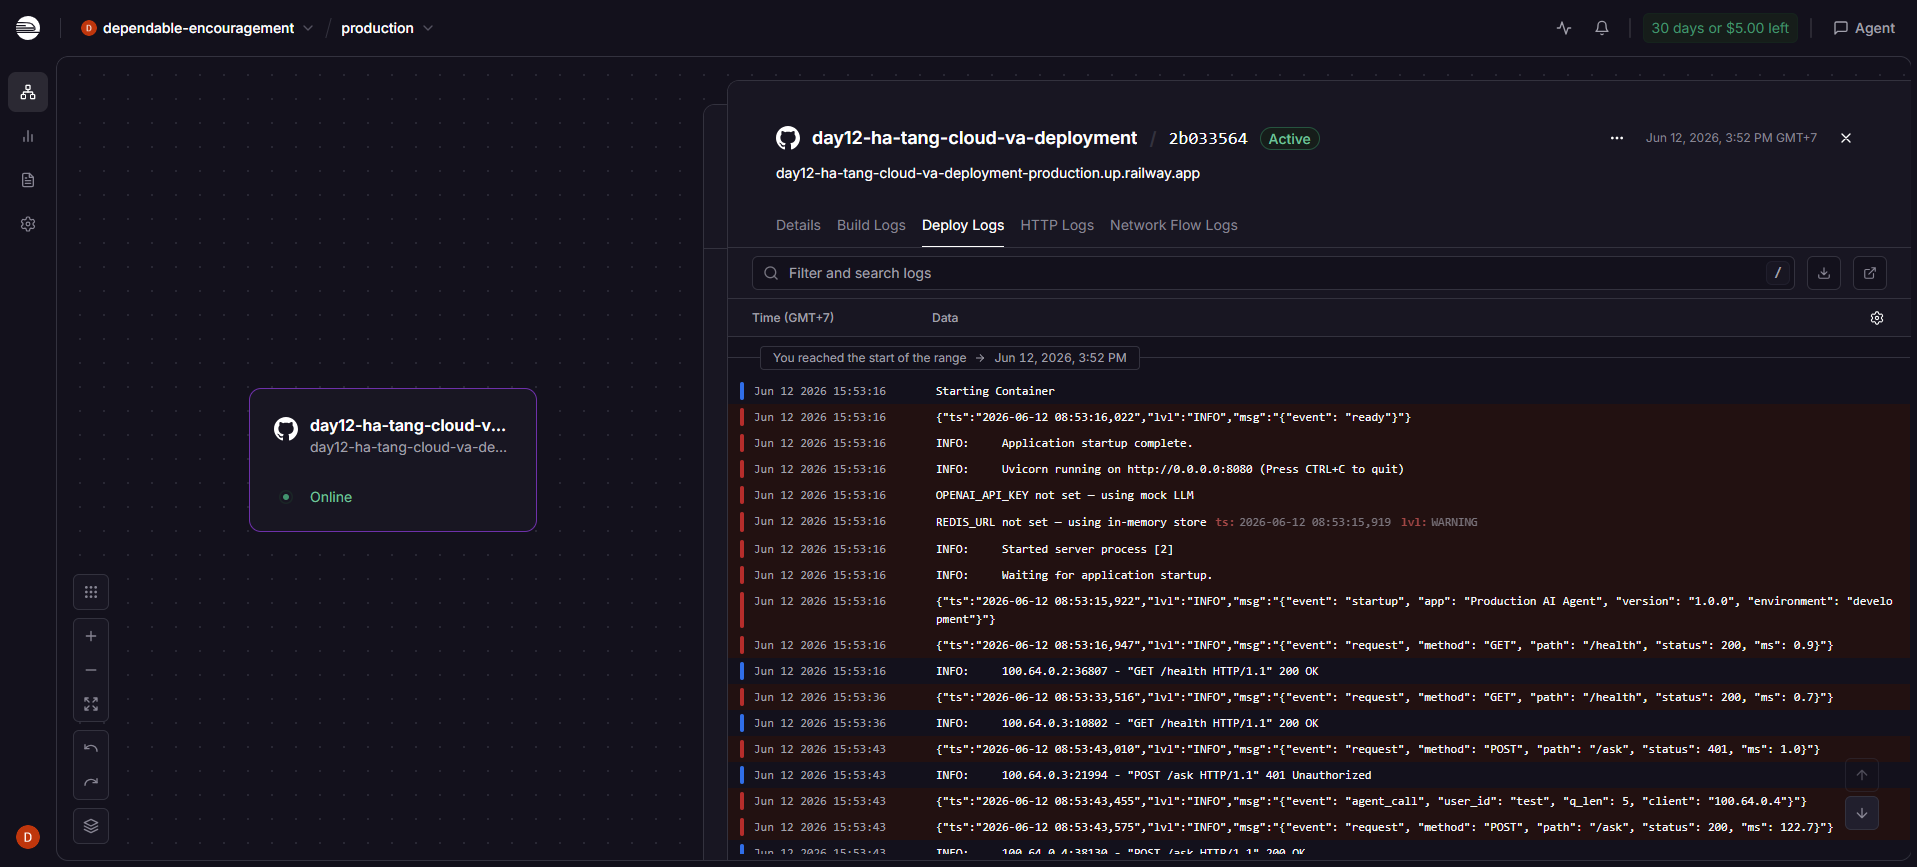
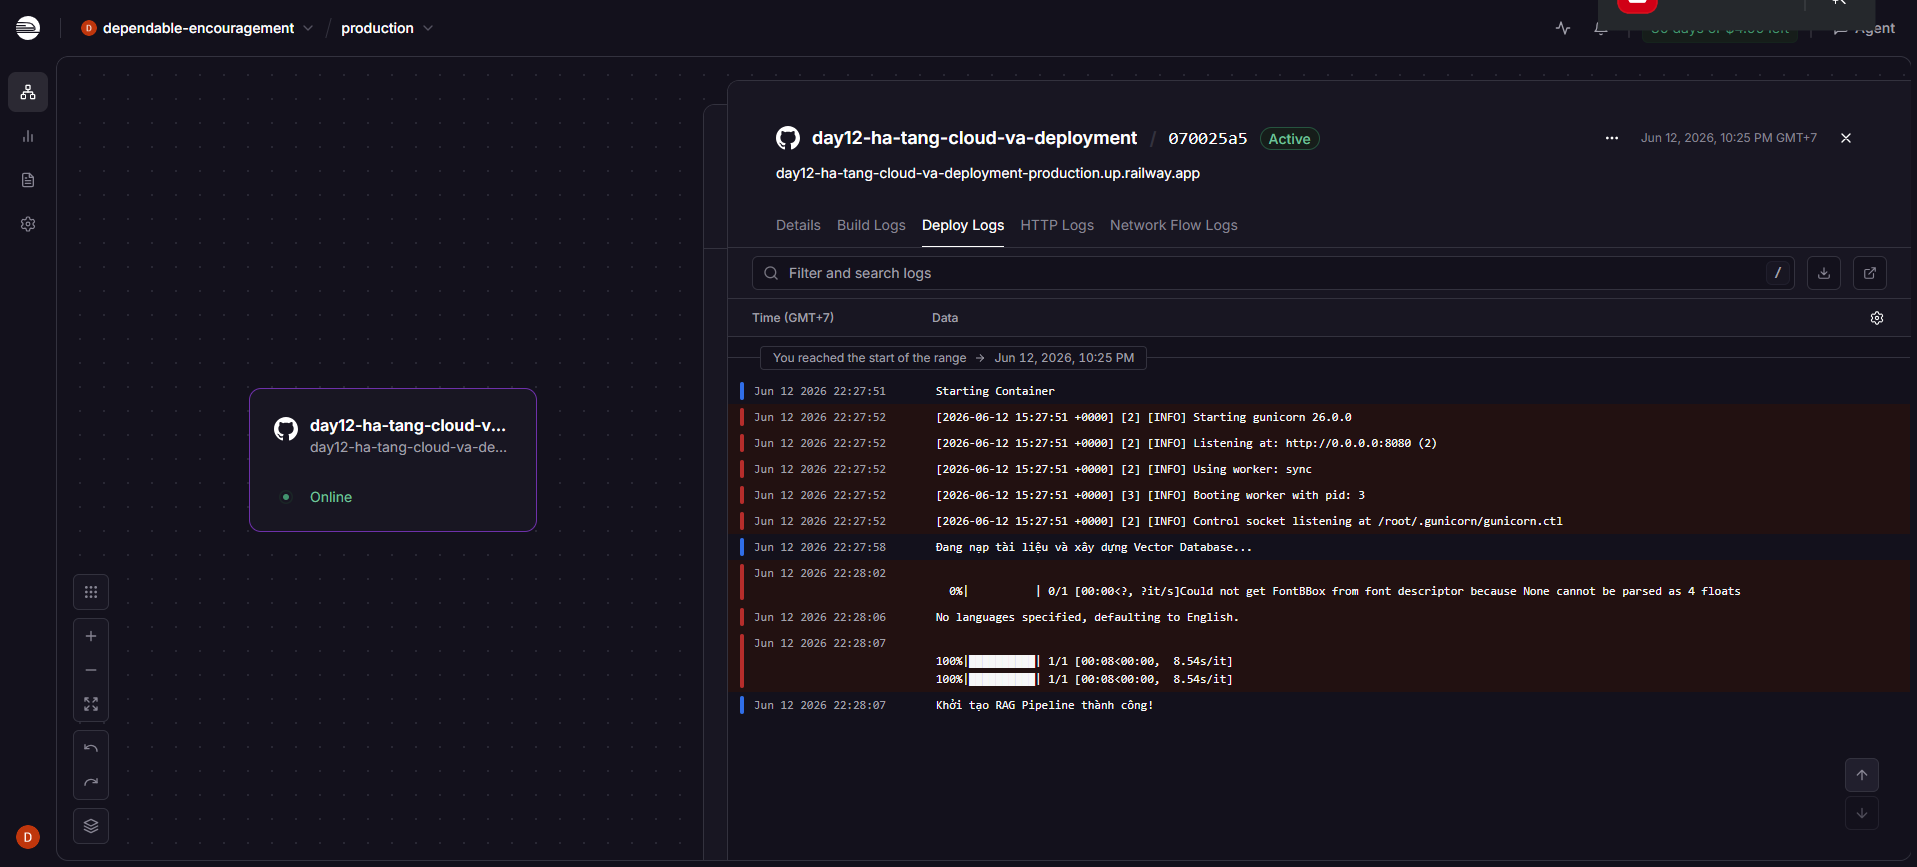
docs: update DEPLOYMENT.md and screenshots for the new Flask RAG app

diff --git a/DEPLOYMENT.md b/DEPLOYMENT.md
@@ -10,70 +10,50 @@ Railway
 
 ### 1. Health Check (Liveness Probe)
 ```bash
-curl https://day12-ha-tang-cloud-va-deployment-production.up.railway.app/health
+curl -X GET https://day12-ha-tang-cloud-va-deployment-production.up.railway.app/health
 ```
 **Expected Response:**
 ```json
 {
-  "status": "ok",
-  "version": "1.0.0",
-  "environment": "production",
-  "checks": {
-    "llm": "mock"
-  }
+  "status": "ok"
 }
 ```
 
-### 2. Readiness Check (Readiness Probe)
+### 2. Config Check
 ```bash
-curl https://day12-ha-tang-cloud-va-deployment-production.up.railway.app/ready
+curl -X GET https://day12-ha-tang-cloud-va-deployment-production.up.railway.app/config
 ```
 **Expected Response:**
 ```json
 {
-  "ready": true
+  "discord_invite": "https://discord.gg/your-invite-code"
 }
 ```
 
-### 3. API ask (Without Authentication Header)
+### 3. Ask Question (RAG / Rulebase)
 ```bash
 curl -X POST https://day12-ha-tang-cloud-va-deployment-production.up.railway.app/ask \
   -H "Content-Type: application/json" \
-  -d '{"question": "What is 2+2?"}'
+  -d "{\"question\": \"Được nghỉ bao nhiêu buổi ?\"}"
 ```
 **Expected Response:**
-- Status Code: `401 Unauthorized`
-- Body: `{"detail":"Invalid or missing API key. Include header: X-API-Key: <key>"}`
-
-### 4. API ask (With Authentication Header)
-*(Replace `YOUR_API_KEY` with the actual key set in your environment variables)*
-```bash
-curl -X POST https://day12-ha-tang-cloud-va-deployment-production.up.railway.app/ask \
-  -H "X-API-Key: YOUR_API_KEY" \
-  -H "Content-Type: application/json" \
-  -d '{"question": "Explain Cloud Computing"}'
-```
-**Expected Response:**
-- Status Code: `200 OK`
-- Body:
 ```json
 {
-  "question": "Explain Cloud Computing",
-  "answer": "Mock LLM Response to: Explain Cloud Computing",
-  "model": "gpt-4o-mini",
-  "timestamp": "2026-06-12T07:57:27.123456+00:00"
+  "answer": "**[Câu trả lời ngắn gọn...]**\n\n- Chi tiết điểm 1...\n\n*(Nguồn: <tên file>)*",
+  "source": "rag"
 }
 ```
 
 ## Environment Variables Configured on Railway
-- `PORT`: `8000`
-- `AGENT_API_KEY`: `your-secret-api-key`
-- `ENVIRONMENT`: `production`
-- `REDIS_URL`: `redis://redis:6379/0` (or the dynamic service URL if running on Railway Redis)
-- `DEBUG`: `false`
-- `LLM_MODEL`: `gpt-4o-mini`
+- `PORT`: `8080` (Railway tự động ánh xạ cổng)
+- `GOOGLE_API_KEY`: `<your-google-api-key>`
+- `DISCORD_INVITE_URL`: `https://discord.gg/your-invite-code`
+- `EMBEDDING_MODEL`: `gemini-embedding-001`
+- `LLM_MODEL`: `gemini-2.5-flash`
+- `RULEBASE_PATH`: `./data/rulebase.json`
 
 ## Screenshots
 ![Deployment dashboard](screenshots/dashboard.png)
 ![Service running](screenshots/running.png)
 ![Test results](screenshots/test.png)
+
